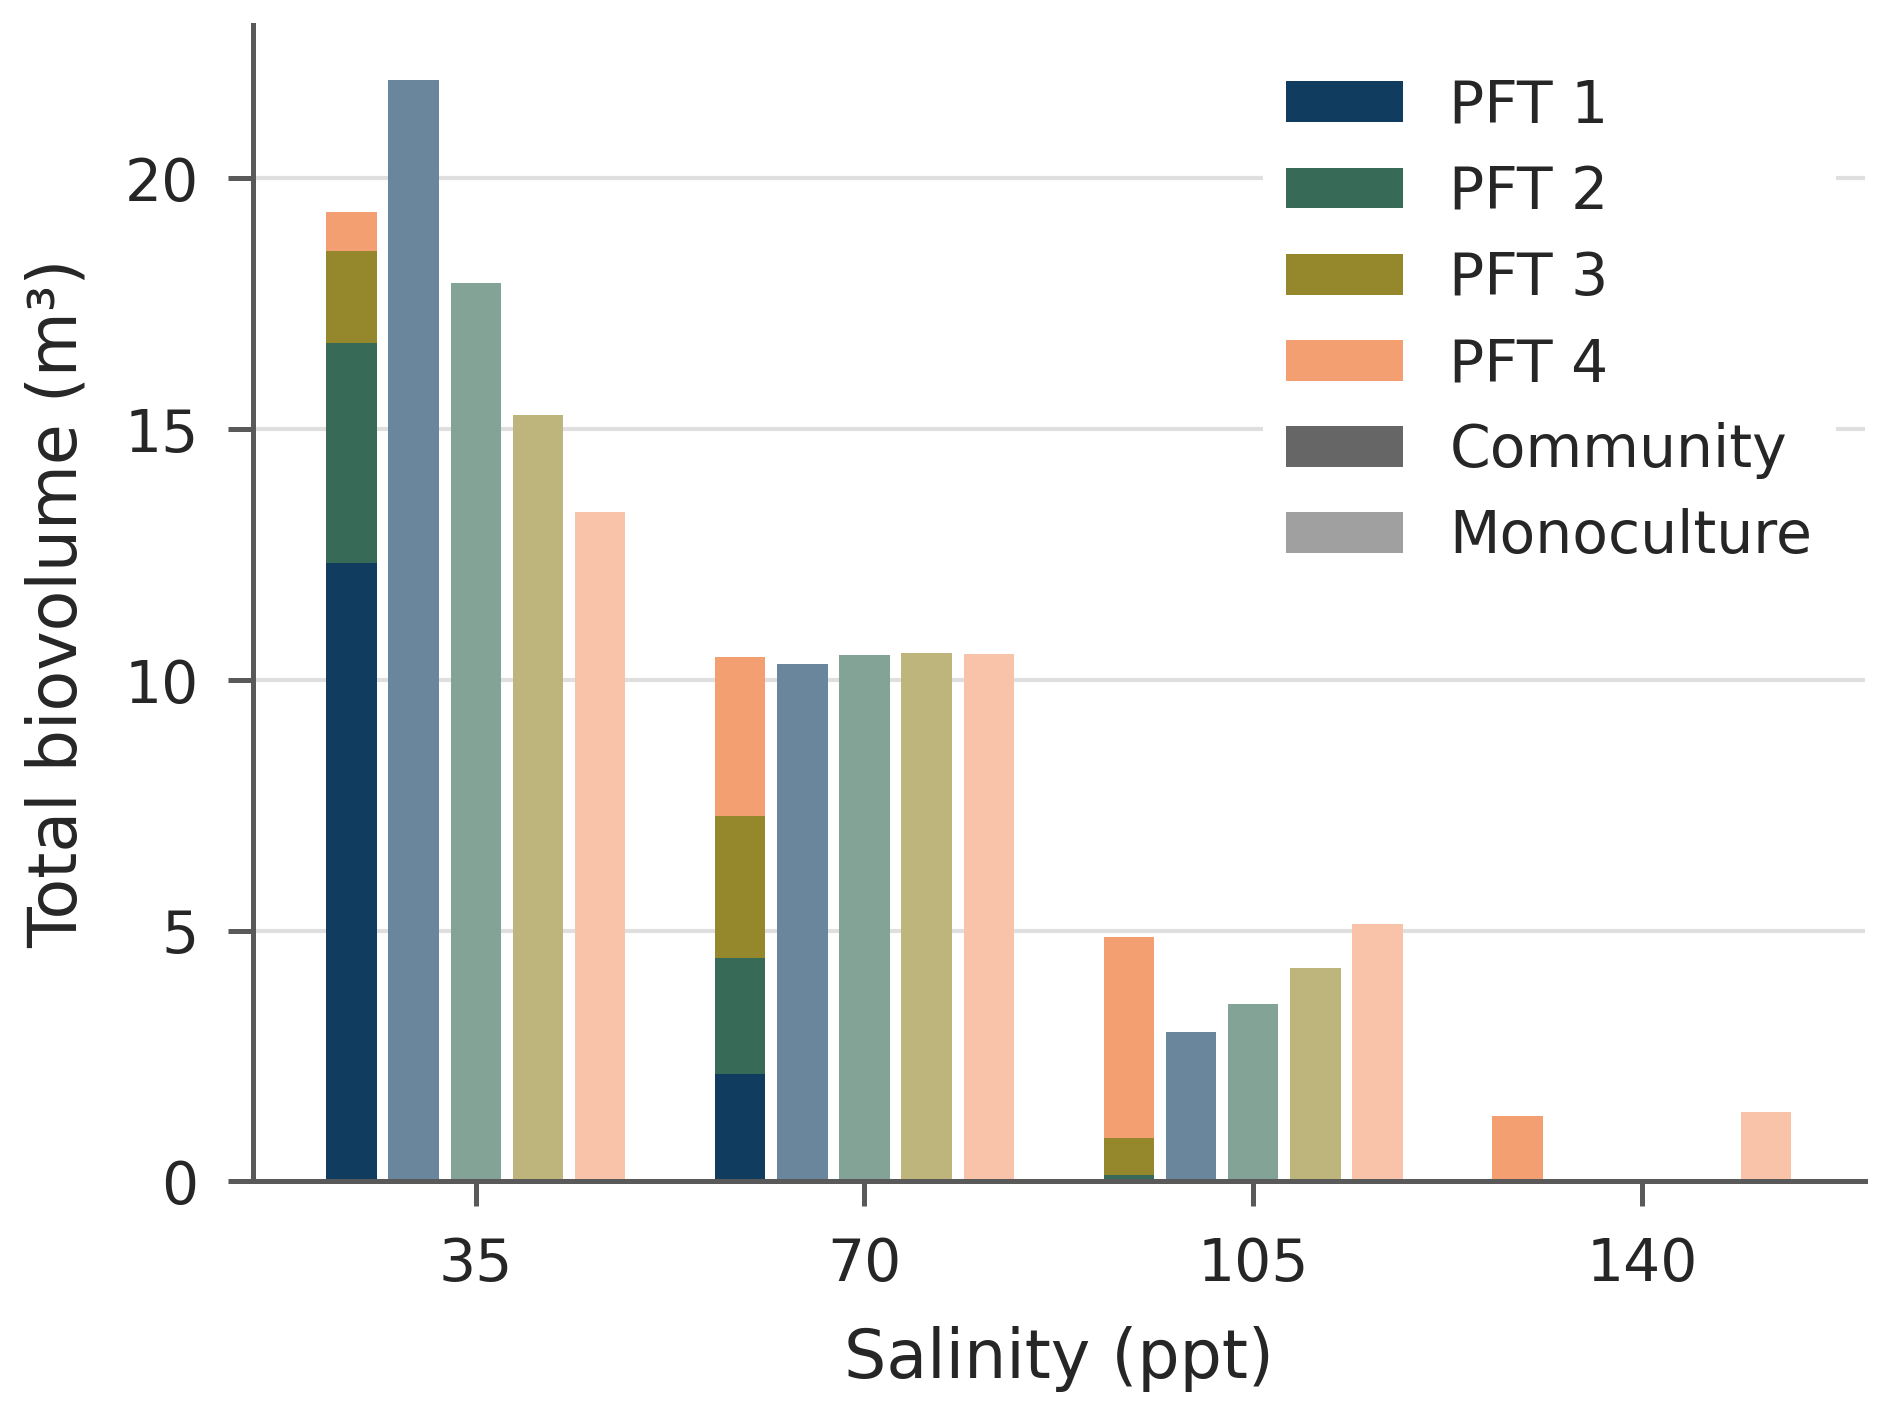
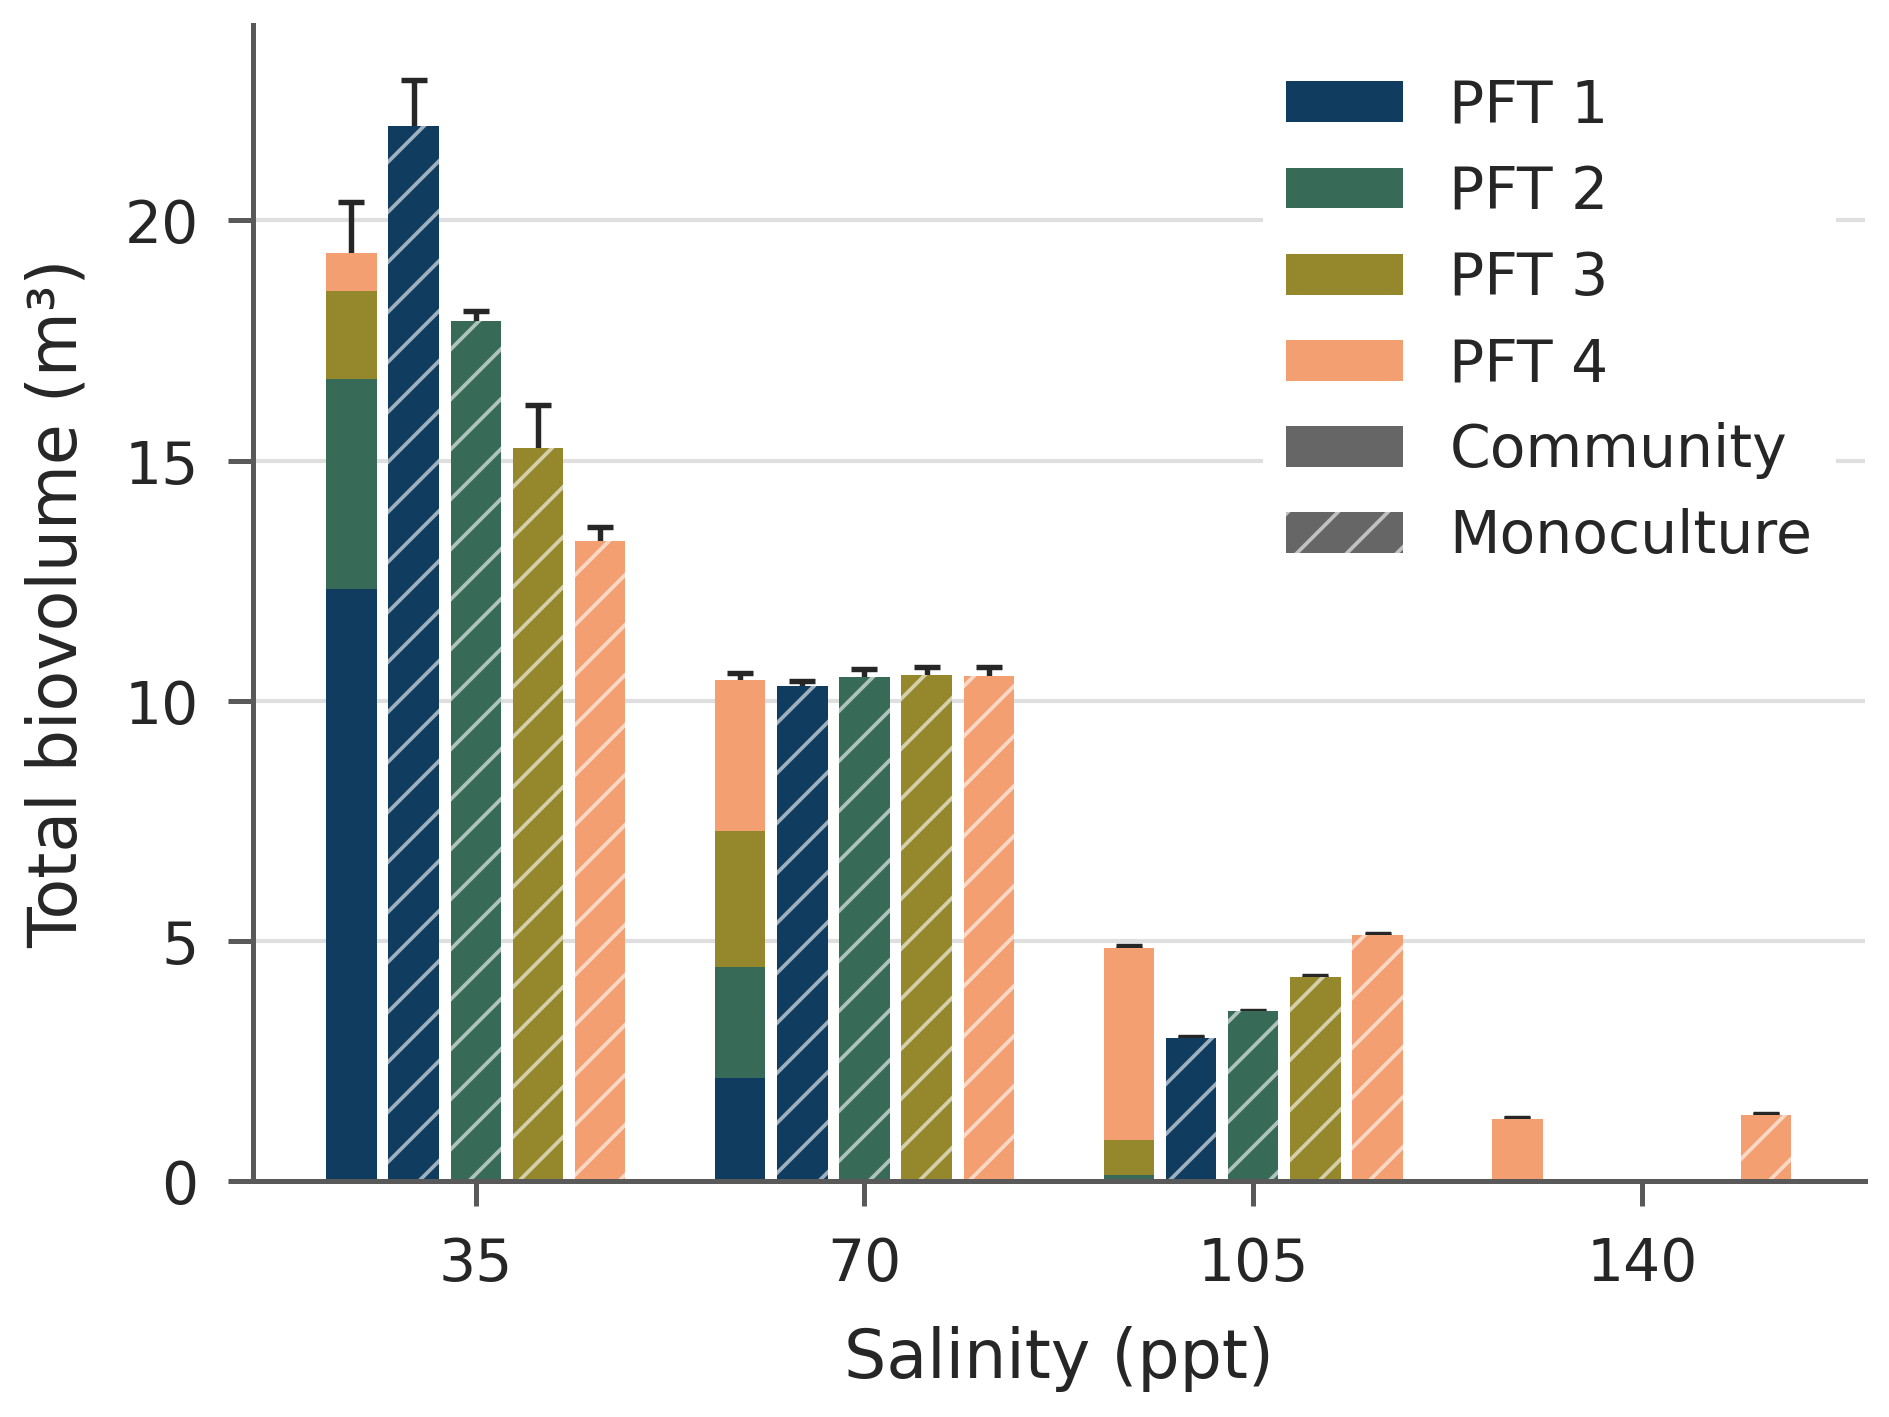
Add striped pattern and errorbar to bars

diff --git a/source/03_fig2_community_vs_monoculture.py b/source/03_fig2_community_vs_monoculture.py
@@ -1,11 +1,13 @@
 """
 Figure 2: total biovolume of community and monocultures under static salinity.
 
-Community runs are shown as stacked PFT contributions, monocultures as pale
-PFT bars. Values are means of the ten replicates of the mean total biovolume
-in years 5-10; output steps without plants count as 0.
+Community runs are shown as stacked PFT contributions, monocultures as striped
+PFT bars. Values are means of the ten replicate time means in years 5-10;
+output steps without plants count as 0. Error bars show one sample SD across
+replicate time means, drawn behind bars. Community SD uses replicate totals.
 
-Input:  figure_data/comm_mat.csv, mono_mat.csv
+Input:  figure_data/comm_mat.csv, mono_mat.csv,
+        grouped_all_static.csv, grouped_pft_mono_static.csv
 Output: figures/main/fig2_community_vs_monoculture.png
 """
 
@@ -37,12 +39,28 @@ def community_style(color):
 
 
 def monoculture_style(color):
-    """Pale colour, no outline."""
-    return {"facecolor": config.pale(color), "linewidth": 0}
+    """Opaque PFT colour with translucent white stripes and no outline."""
+    return {"facecolor": color, "edgecolor": (1, 1, 1, 0.60),
+            "hatch": "////", "linewidth": 0}
 
 
-def draw_figure(comm_mat, mono_mat):
-    """Draw community (stacked) and monoculture (pale) bars per salinity."""
+def read_replicate_stats():
+    """Mean and sample SD of community totals or individual monocultures."""
+    data = pd.concat([
+        pd.read_csv(FIGURE_DATA / "grouped_all_static.csv"),
+        pd.read_csv(FIGURE_DATA / "grouped_pft_mono_static.csv"),
+    ], ignore_index=True)
+    if data.duplicated(["salinity", "pft", "n"]).any():
+        raise ValueError("Duplicate replicate identifiers in Figure 2 inputs.")
+    stats = data.groupby(["salinity", "pft"]).total_volume.agg(
+        mean="mean", sd="std", n="count").reset_index()
+    if not (stats.n == 10).all():
+        raise ValueError("Figure 2 requires ten replicate time means per bar.")
+    return stats
+
+
+def draw_figure(comm_mat, mono_mat, stats):
+    """Draw stacked communities and striped monocultures with SD behind bars."""
     salinities = config.SAL_STATIC
     pfts = config.PFTS
     colors = config.pft_color_map
@@ -66,9 +84,18 @@ def draw_figure(comm_mat, mono_mat):
         ax.bar(x_base + offsets[i], mono_mat.loc[salinities, pft].values, width,
                **monoculture_style(colors[pft]))
 
+    for i, pft in enumerate([0, *pfts]):
+        sub = stats[stats.pft == pft].set_index("salinity").loc[salinities]
+        # Do not draw error-cap marks for absent PFTs with zero mean and SD.
+        visible = (sub["mean"] != 0) | (sub["sd"] != 0)
+        ax.errorbar((x_base + offsets[i])[visible], sub["mean"][visible],
+                    yerr=sub["sd"][visible], fmt="none", ecolor="0.15",
+                    elinewidth=0.65, capsize=1.6, capthick=0.65, zorder=0.8)
+
     ax.set_xticks(x_base + offsets.mean(), [str(s) for s in salinities])
     ax.set_xlabel("Salinity (ppt)")
     ax.set_ylabel("Total biovolume (m³)")
+    ax.set_ylim(0, float((stats["mean"] + stats.sd).max()) * 1.05)
     ax.set_axisbelow(True)
     ax.grid(axis="y", linewidth=0.5, alpha=0.4)
 
@@ -86,7 +113,9 @@ def draw_figure(comm_mat, mono_mat):
 
 def main():
     config.apply_style()
-    fig = draw_figure(read_matrix("comm_mat.csv"), read_matrix("mono_mat.csv"))
+    plt.rcParams["hatch.linewidth"] = 0.45
+    fig = draw_figure(read_matrix("comm_mat.csv"), read_matrix("mono_mat.csv"),
+                      read_replicate_stats())
     config.save_figure(fig, OUT_PNG)
     plt.close(fig)
 
